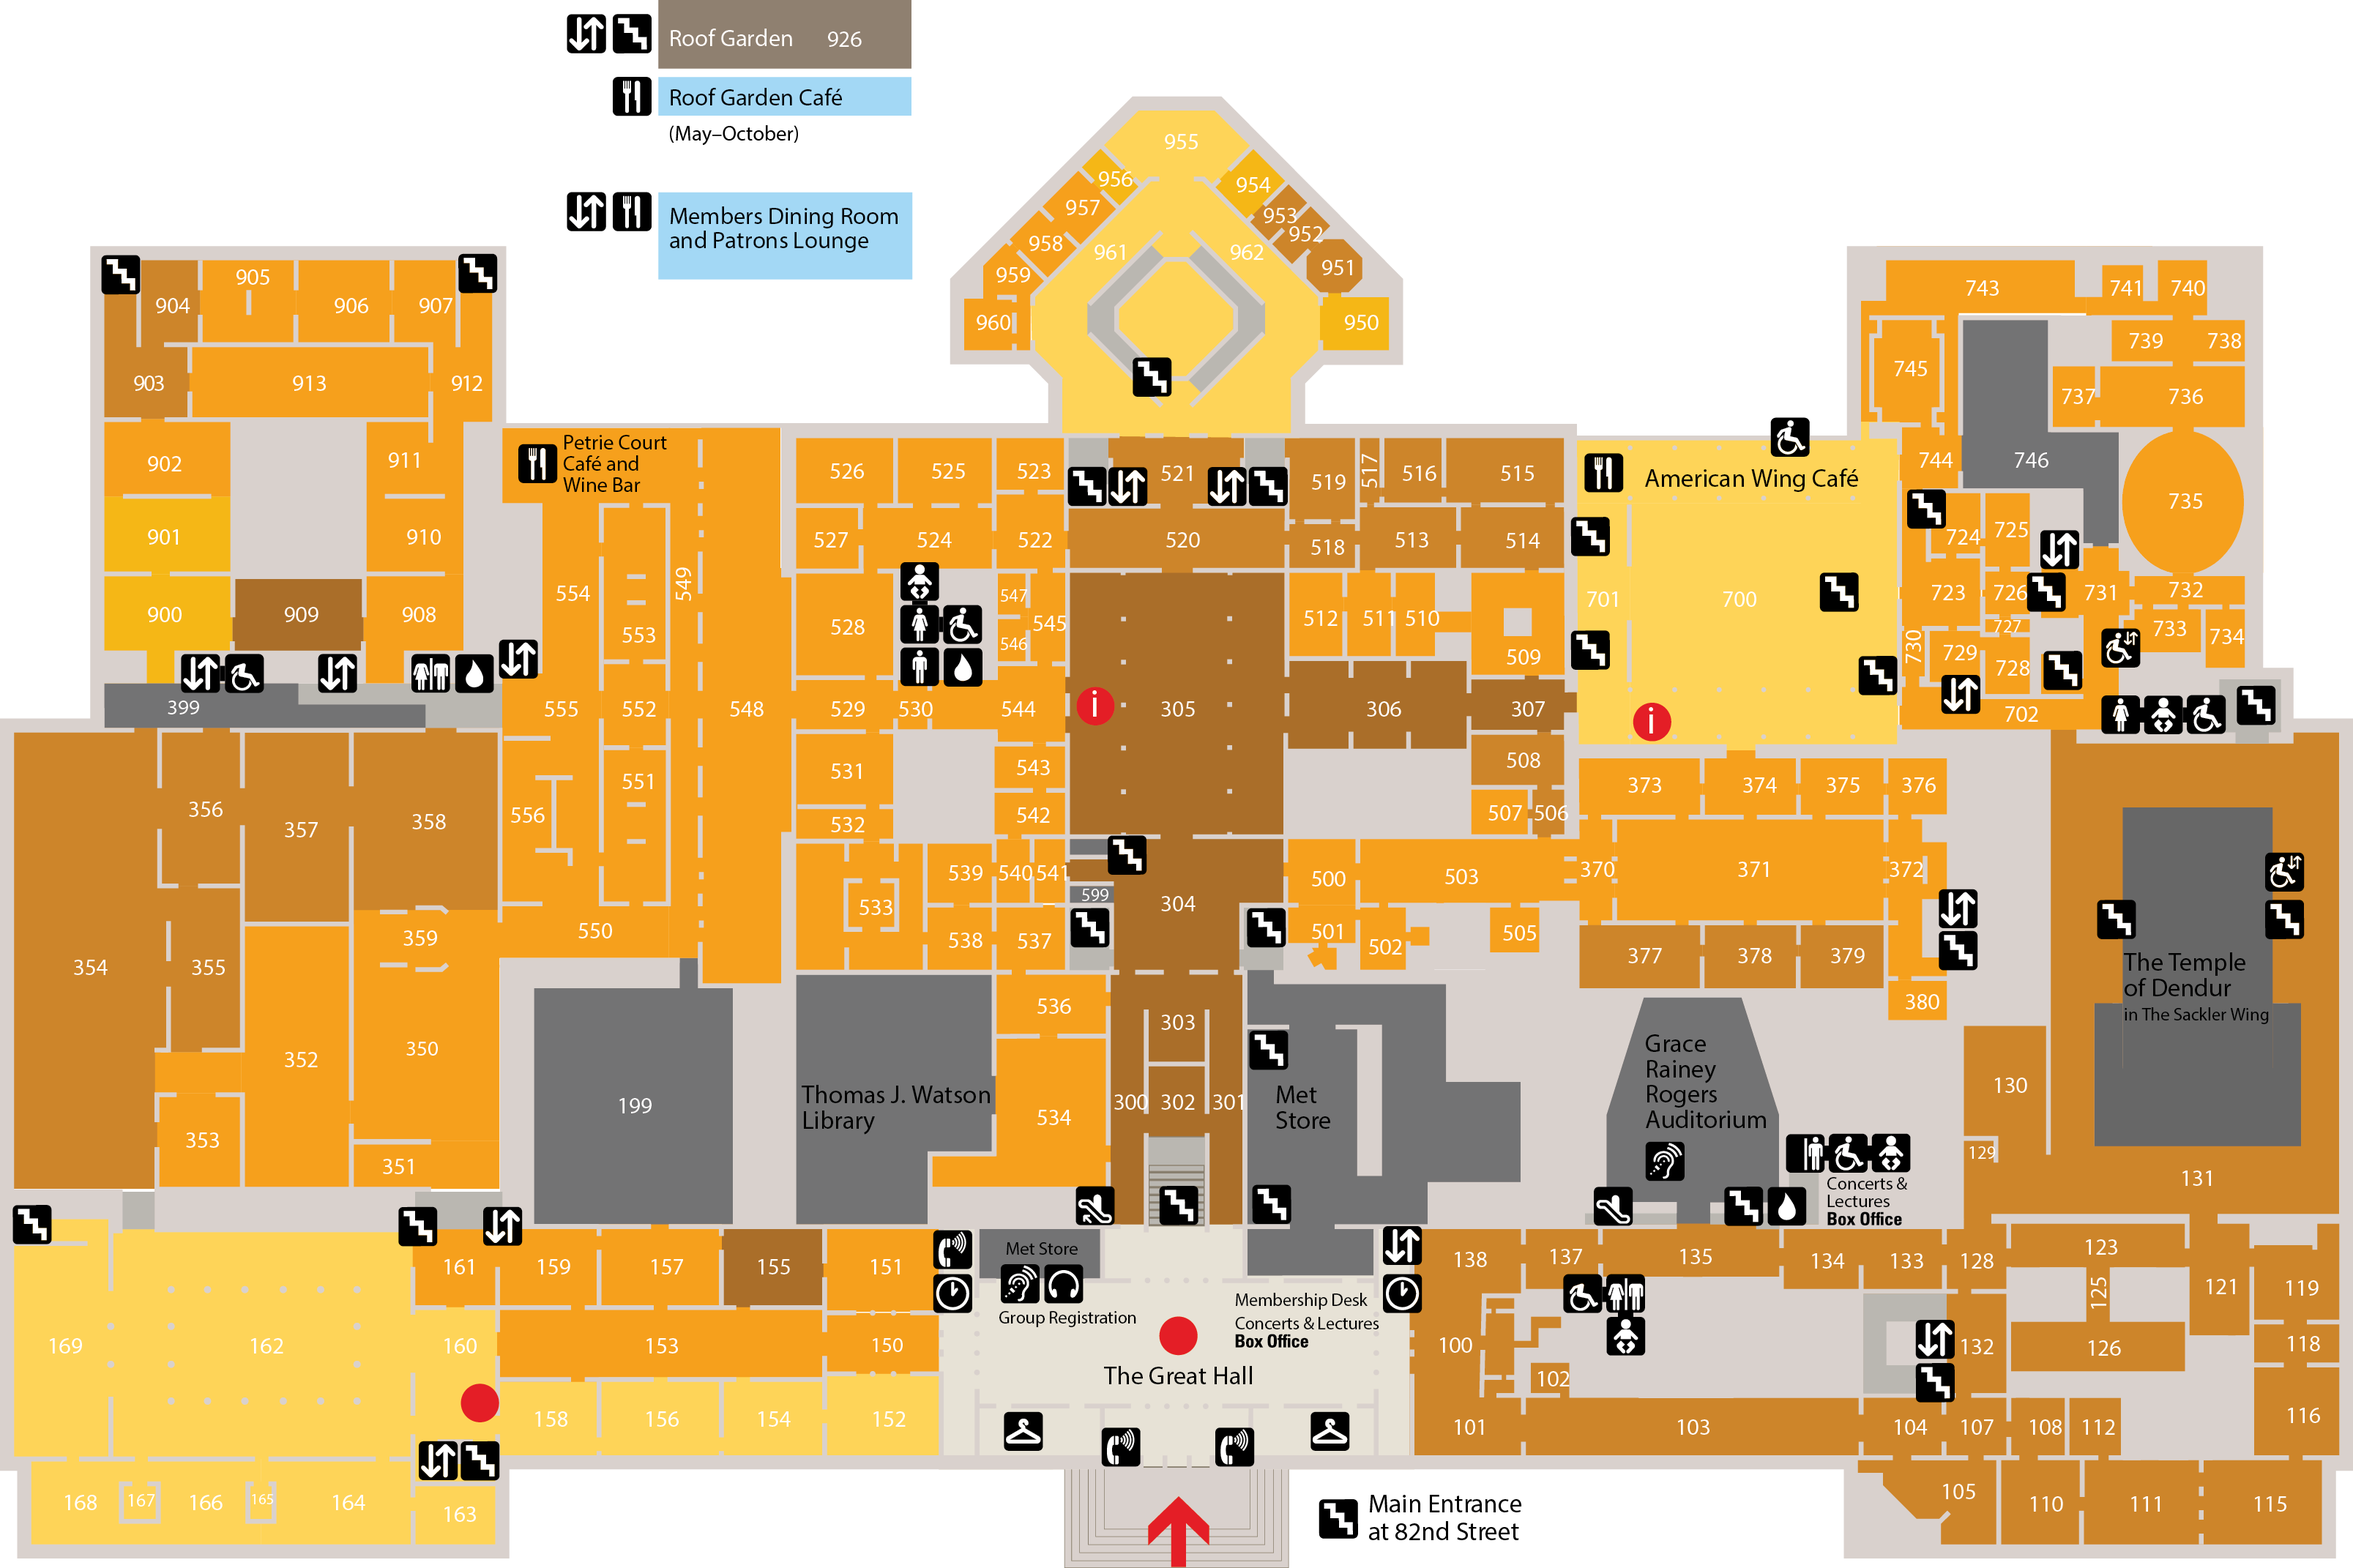
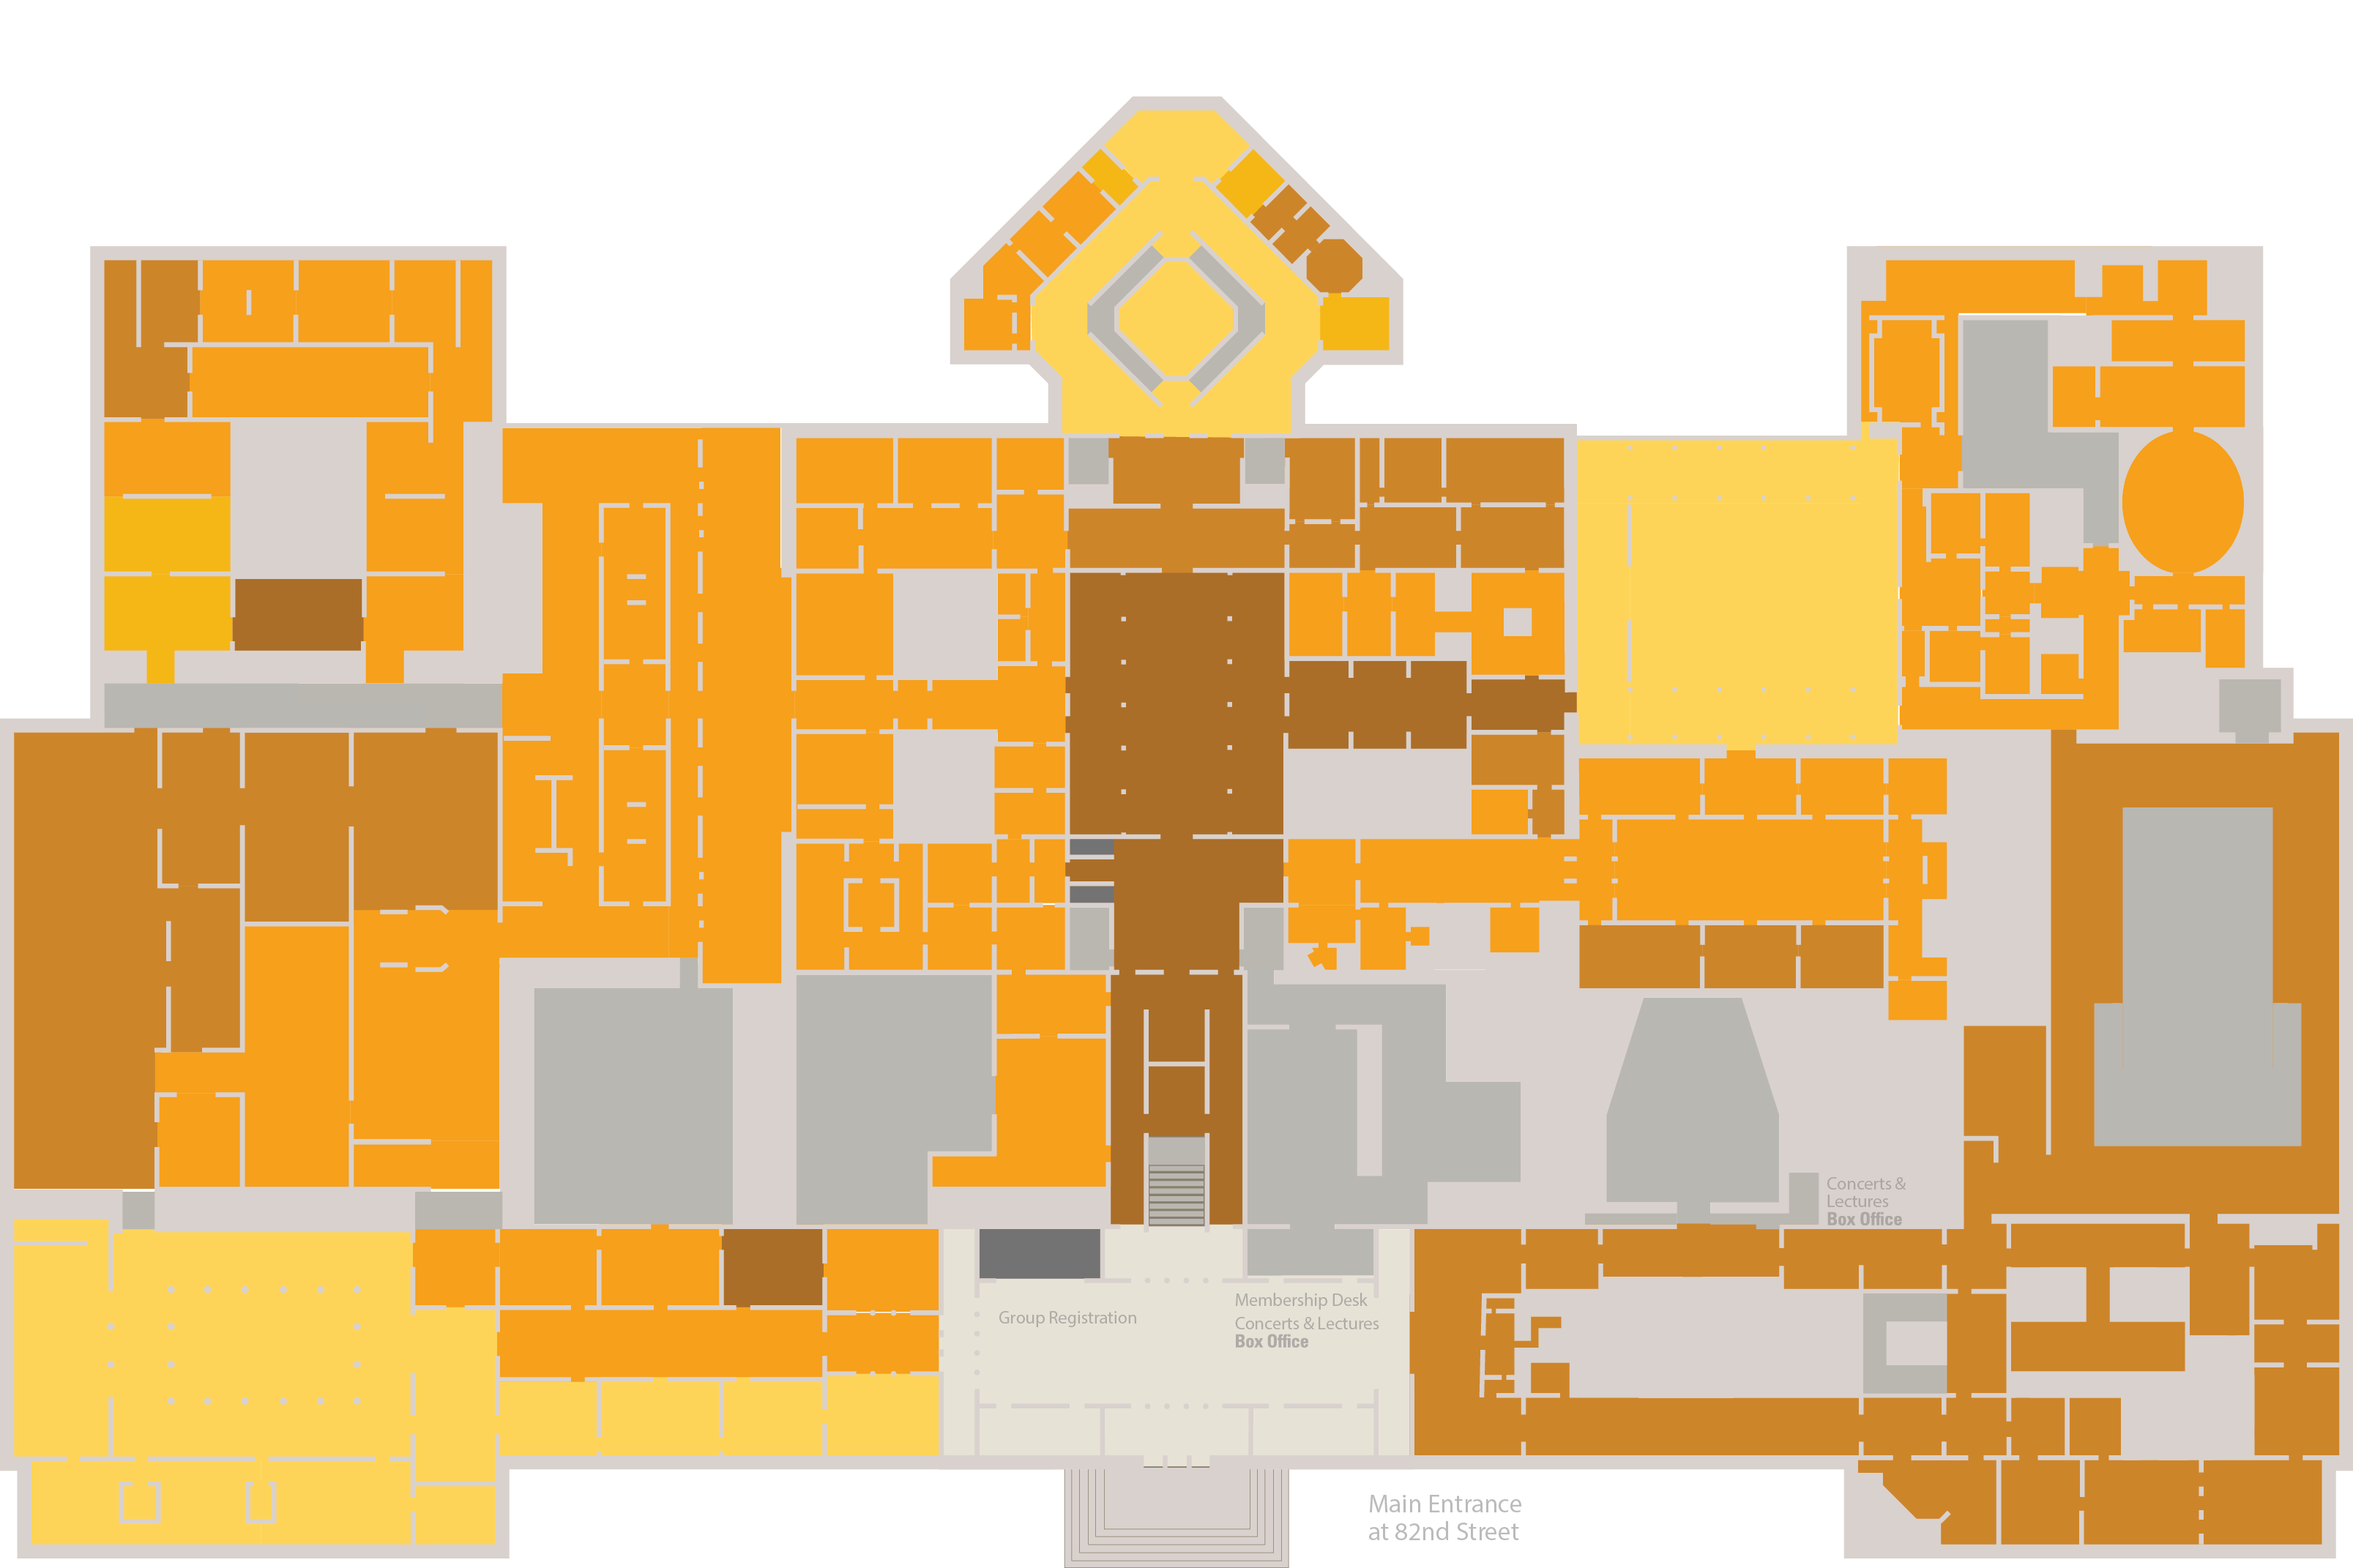
improved map data

diff --git a/index_mvp3.html b/index_mvp3.html
@@ -14,24 +14,16 @@
     <script type="text/javascript" src="js/raphael-min.js"></script>
     <script language='javascript'>
         $( document ).ready(function() {
-           
-           // temp values while I figure out how to get user input
-
-            var light_pref = 1; // 0 = don't care; 1 = bright; 2 = dim;
-            var crowd_pref = 0; // 0 = don't care; 1 = low; 2 = high;
-            var noise_pref = 0; // 0 = don't care; 1 = low; 2 = high;
-            
-            //var userPrefs = {light: light_pref, crowd: crowd_pref, noise: noise_pref};
 
             var userPrefs = {light: 0, crowd: 0, noise: 0};
 
            // map vars 
             var fl1_url = "metmap_fl1.png";
             var fl1_L_url = "metmap_fl1_light.png";
-            var fl1_galleries_url = "metmap_fl1_galleries.png";
             
             var imgScale = .3;
-            var padding = 50;
+            var vertShift = 0;
+
 
             // floor 1
             var fl1_srcWidth = 3214; 
@@ -41,15 +33,23 @@
 
             var paper; // "canvas"
             
-            $("#mapelem").height(fl1_height).width(fl1_width);
+            $("#mapelem").height(fl1_height+vertShift).width(fl1_width);
 
-            Raphael("mapelem", fl1_width, fl1_height, function(
+            Raphael("mapelem", fl1_width, fl1_height+vertShift, function(
                 text){
                 
                 paper = this; //this is valid within this functiom
                 
-                fl1_paperImg = paper.image(fl1_L_url, 0,0, fl1_width, fl1_height);
+                var fl1_paperImg = paper.image(fl1_L_url, 0,vertShift, fl1_width, fl1_height);
+                
+                /*
+                fl1_paperImg.click(function(evt){
+                    console.log("you clicked the map");
+                    fl1_paperImg = paper.image(fl1_url, 0,vertShift, fl1_width, fl1_height);
+                });
+                */
 
+                /*
                 $(window).keypress(function (evt){
                     if(evt.charCode == 1){ // 'return' is pressed 
                         fl1_paperImg = paper.image(fl1_url, 0,0, fl1_width, fl1_height);
@@ -58,7 +58,7 @@
                         fl1_L_paperImg = paper.image(fl1_L_url, 0,0, fl1_width, fl1_height);
                     } 
                 });                
-
+                */
                 //fl2_paperImg = paper.image(fl2_url, 0,fl1_height+padding, fl2_width, fl2_height);
                 
                 // Draw circles that a user can click on to choose start and end point
@@ -66,22 +66,70 @@
                 $.getJSON('data/floor_1.json ', function(graph) {
                     $.each(graph.nodes, function(index, node) {
 
-                        // set up access values
-
-
-                        if (node.nodetype == "gallery" || node.nodetype == "wc") { 
-
-                            var circleDraw = paper.circle(node.x, node.y, 10);
-                            var circleClicked = false;
+                        if (node.nodetype == "gallery") { 
                             
+                            poi_set = {};
+
+                            var txtClicked = false;
+
+                            var txtDraw = paper.text(node.x, node.y+vertShift, node.galnum);
+                            
+                            // gallery numbers
+                            txtDraw.id = index;
+                            txtDraw.attr("fill", "black");
+                            txtDraw.attr("fill-opacity",.5);
+                            txtDraw.attr("font-size", 10);
+
+                            // text event properties
+                            txtDraw.click(function(evt){
+
+                                var poi_id = this.id;
+                                var nodeType;
+
+                                //console.log(graph.nodes[this.id]);
+                                if (txtClicked == false) {
+
+                                    if (startNode == true) {
+                                    nodeType = "start";
+                                    startNode = false;
+                                    } else {
+                                    nodeType = "poi";
+                                    }
+
+                                    this.attr("fill", "blue");
+                                    txtClicked = true;
+                                    poi_set[poi_id] = {x: node.x, y: node.y, type: nodeType, galnum: node.galnum};
+                                    
+                                    console.log(node);
+                                } else {
+                                    this.attr("fill", "black");
+                                    txtClicked = false;
+                                    delete poi_set[poi_id];
+                                }
+                            });
+                            
+                            txtDraw.mouseover(function(evt){
+                                if (txtClicked == false) {
+                                    this.attr("fill-opacity", 1);
+                                }
+                            });
+
+                            txtDraw.mouseout(function(evt){
+                                if (txtClicked == false) {
+                                    this.attr("fill-opacity", .5);
+                                }
+                            });
+
+                            /*
+                            var circleClicked = false;
+
+                            var circleDraw = paper.circle(node.x, node.y+vertShift, 10);
 
                             circleDraw.id  = index;
                             circleDraw.attr("stroke","black");
                             circleDraw.attr("stroke-width",.7);
                             circleDraw.attr("fill", "white");
                             circleDraw.attr("fill-opacity","0");
-                        
-                            poi_set = {};
 
                             // Assign events
                             
@@ -135,6 +183,7 @@
                                     this.attr("fill-opacity", "0");
                                 }
                             });
+                            */ 
                         }
                     });
                 });
@@ -166,7 +215,6 @@
                         });   
                     }
                 });                
-            
             });
             
             function drawPath(poi_set, poiPath) {
@@ -182,26 +230,32 @@
                         //circle.attr("fill", "blue");
                         //circle.attr("fill-opacity",".5");
                 });*/
+                // highlight path
 
                 // make lines
                 $.each(poiPath, function(index, path) {
                     $.each(path, function(index, edge) {
-
                         var pathString = "M"+edge.sx+","+edge.sy+"L"+edge.ex+","+edge.ey;
                         var line = paper.path(pathString);
                         line.attr("stroke","black");
                         line.attr("stroke-width",2);
-
                     });
                 });
+                /*
+                $.each(poi_set, function(index, node) {
+                    var txtHL = paper.text(node.x, node.y+vertShift, node.galnum);
+                        console.log("node.galnum:");
+                        console.log(node.galnum);
+                        txtDraw.attr("fill", "red");
+                        txtDraw.attr("fill-opacity",1);
+                        txtDraw.attr("font-size", 20);
+                });
+                */
             } 
 
-        
         // Drop down menues for access pref user input
 
         $("#editPrefs").empty();
-
-        console.log( $("#editPrefs").text());
 
         var form = $("<form>").appendTo("#editPrefs");
 
@@ -244,68 +298,33 @@
         $(":input" ,form).blur(function(){
             editfocus = false;
         });
-        
-        //console.log(userPrefs);
-
-
     });
    </script>
-
 </head>
 <body>
 <nav class="navbar navbar-default" role="navigation">
-<div class="container-fluid">
-    <div class="navbar-header">
-      <button type="button" class="navbar-toggle" data-toggle="collapse" data-target="#bs-example-navbar-collapse-1">
-        <span class="sr-only">Toggle navigation</span>
-        <span class="icon-bar"></span>
-        <span class="icon-bar"></span>
-        <span class="icon-bar"></span>
-      </button>
-      <a class="navbar-brand" href="#">Accessible Wayfinder MVP3</a>
+    <div class="container-fluid">
+        <div class="navbar-header">
+          <button type="button" class="navbar-toggle" data-toggle="collapse" data-target="#bs-example-navbar-collapse-1">
+            <span class="sr-only">Toggle navigation</span>
+            <span class="icon-bar"></span>
+            <span class="icon-bar"></span>
+            <span class="icon-bar"></span>
+          </button>
+          <a class="navbar-brand" href="#">Accessible Wayfinder MVP3</a>
+        </div>     
     </div>
-
-
-    <div class="collapse navbar-collapse" id="bs-example-navbar-collapse-1">
-
-<!--        <span id="save" >Save Graph</span> -->
-
-      <ul class="nav navbar-nav navbar-right">
-        <li><span id="mode"></span></li>
-        <li>
-            <div class="form-group">
-                <input id="graphFilename" type="text" class="form-control" placeholder="Filename">
-            </div>
-        </li>
-        <li><a href="#" id="save">Save Graph</a></li>
-        <li class="dropdown">
-          <a href="#" class="dropdown-toggle" data-toggle="dropdown">Load Graph<b class="caret"></b></a>
-          <ul class="dropdown-menu" id="load"></ul>
-        </li>
-       </ul>       
-    </div>
-
+</nav>
 </div>
-</nav>  
-
-<div class="container-fluid" width="100%" >
-
-
-    <div class="row-fluid" id="mapmetadata">
-        <div class="span2" >
-            <div class="row-fluid"  >
-                <div class="span12"  id="editPrefs" >
-                    edit
-                </div>
+<div class="row-constant" id="mapmetadata">
+    <div class="span2" >
+        <div class="row-fluid"  >
+            <div class="span12"  id="editPrefs" >
+                edit
             </div>
         </div>
-        <div class="span10" id="mapelem" ></div>
     </div>
-
-
-</div>
-
-
-
+    <div class="span10" id="mapelem" ></div>
+</div>  
 </body>
 </html>

diff --git a/mapMaker.html b/mapMaker.html
@@ -68,7 +68,7 @@ jQuery.fn.single_double_click = function(single_click_callback, double_click_cal
 
 
 
-  	var imageurl = "metmap_fl1.png";
+  	var imageurl = "metmap_fl1_galnums.png";
   	var srcWidth = 3214;
   	var srcHeight = 2142;
   	var imageScale = .3;
@@ -142,6 +142,7 @@ jQuery.fn.single_double_click = function(single_click_callback, double_click_cal
 					lightlevel : elem.data("lightlevel"),
 					noiselevel : elem.data("noiselevel"),
 					crowdlevel : elem.data("crowdlevel"),
+					galnum : elem.data("galnum"),
 				};
 				data.nodes[name] = ndata;
 			}else if(elem.type == "path"){
